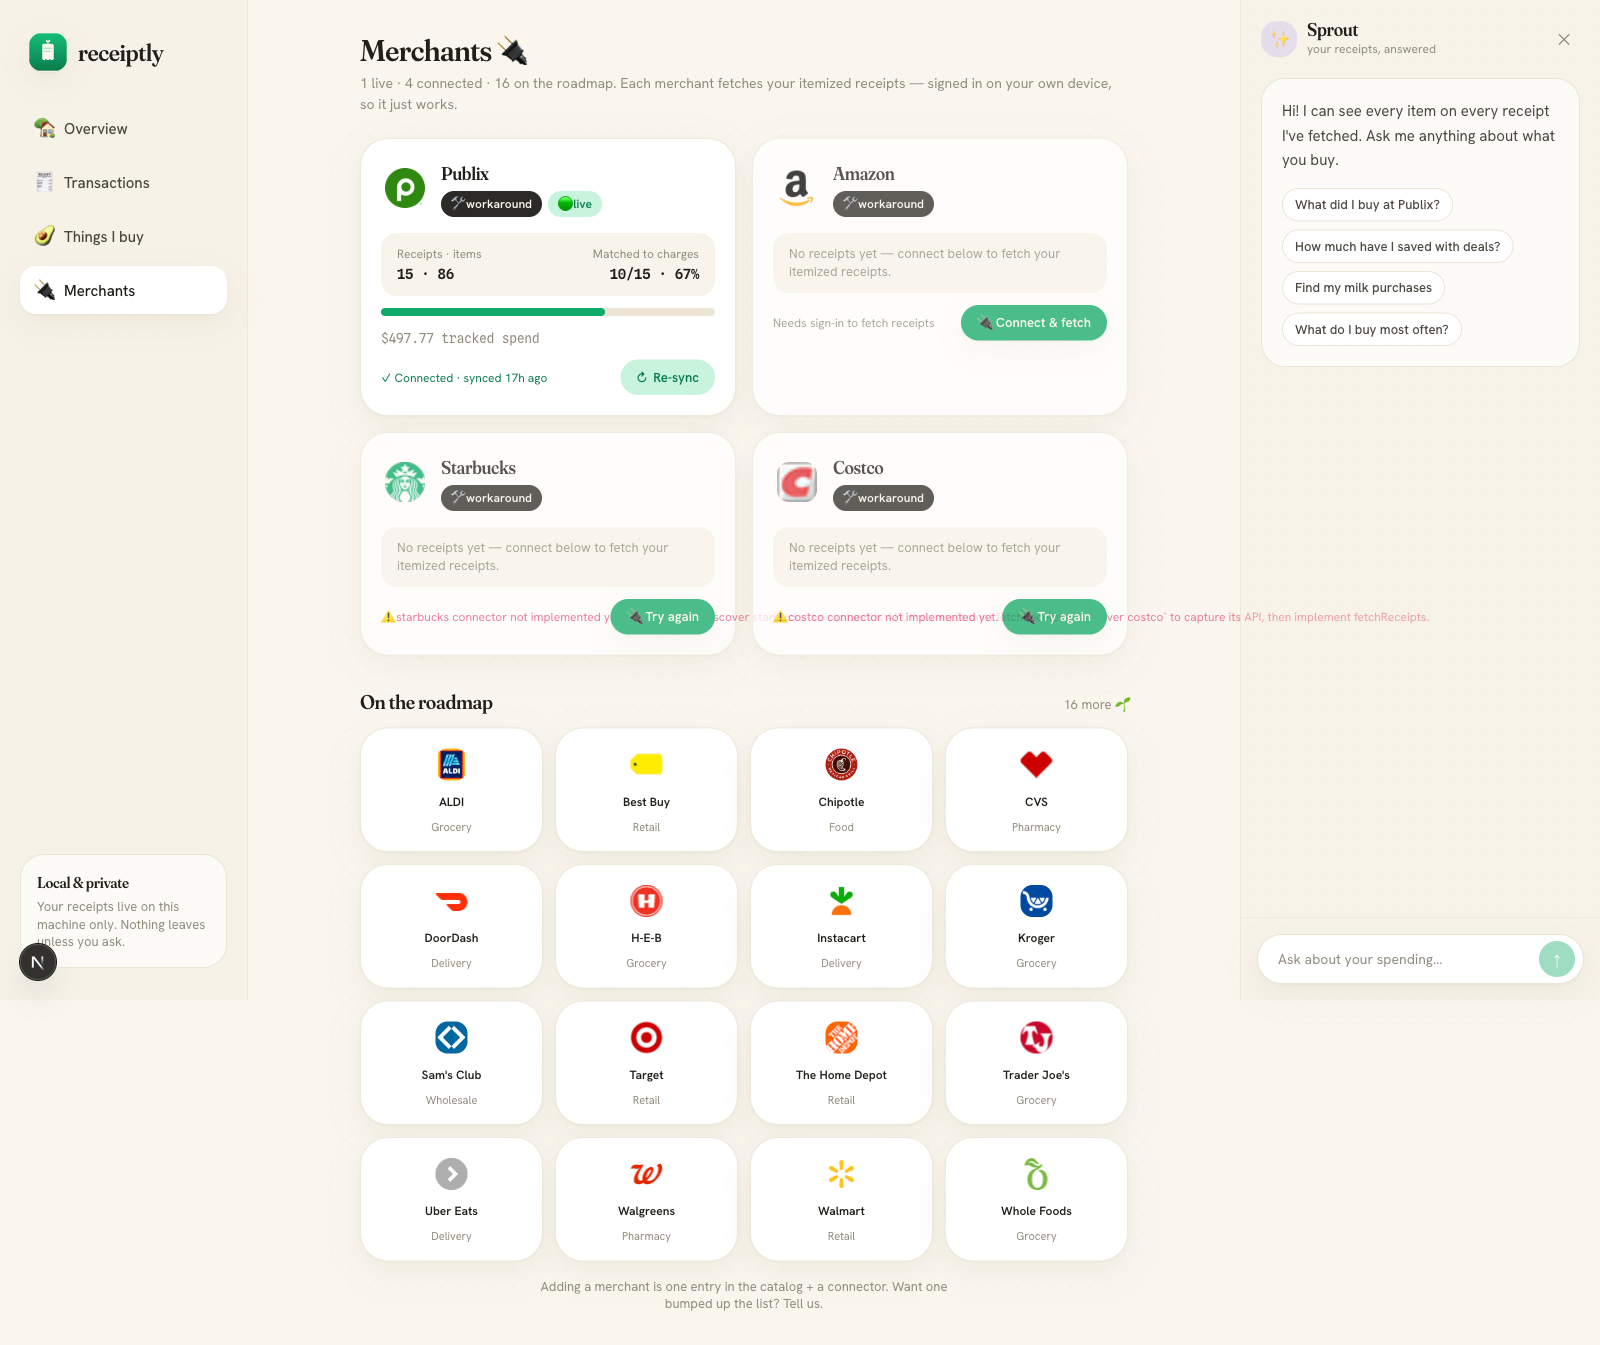
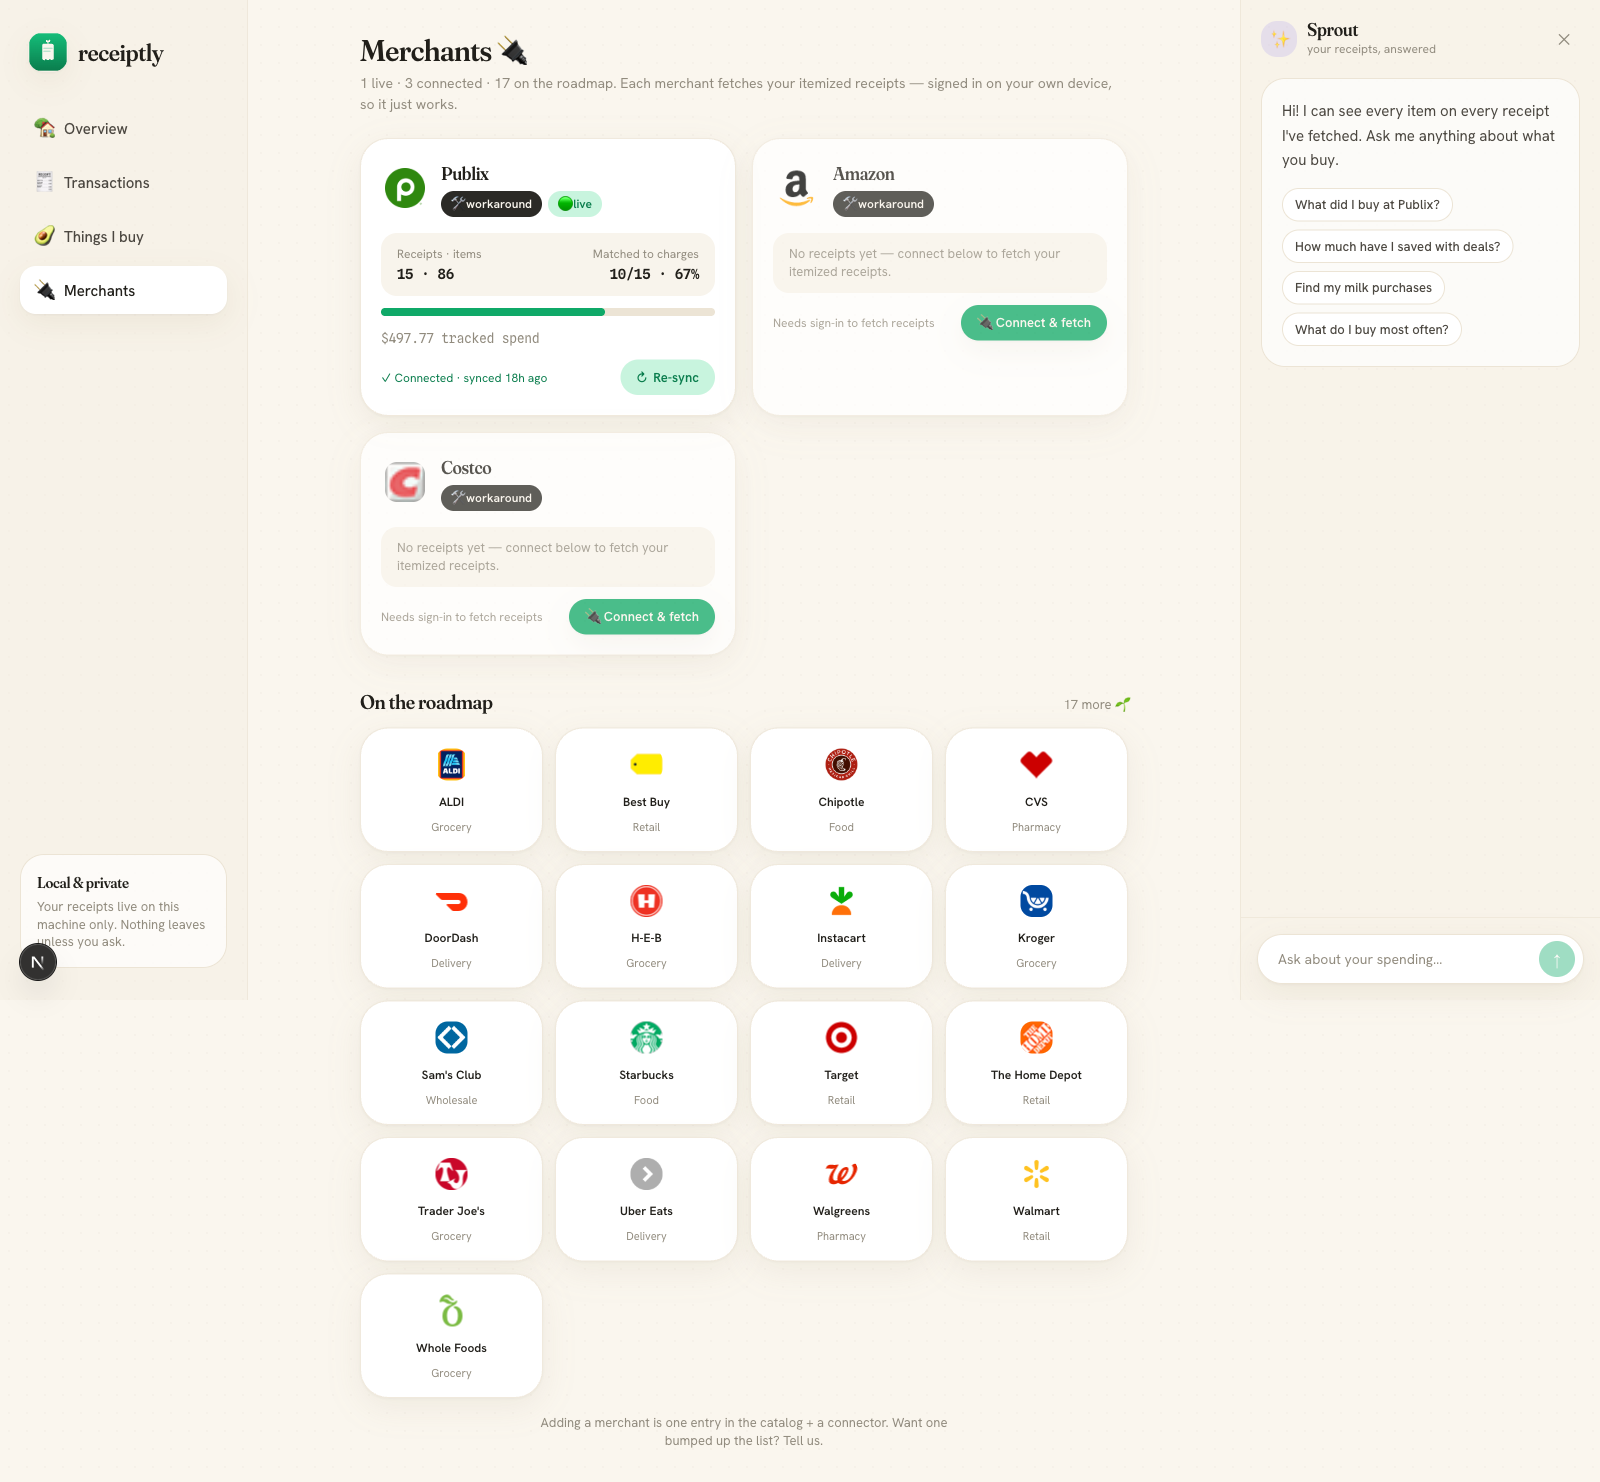
Fix Merchants page: drop Starbucks stub, stop the error overflow
The Starbucks/Costco cards showed a raw connector-stub error that referenced
the dev CLI ("Run `receiptly discover ...`") and overflowed the card.

- Starbucks has no capture path, so remove it from the connector registry; it's
  now catalog status "soon" and shows in the roadmap grid instead of an errored
  connector card.
- ConnectMerchant: move `truncate` to the flex container (it was on an inline
  span, so it never clipped) — long errors now ellipsize with a title tooltip.
- Costco: replace the CLI-referencing stub message with an on-device hint; clear
  the stale error so the card shows clean.
- Re-shoot docs/merchants.png with the fixed grid (Publix live; Amazon/Costco
  connectable; 17 on the roadmap).

diff --git a/apps/web/lib/merchants.ts b/apps/web/lib/merchants.ts
@@ -21,7 +21,7 @@ export const MERCHANTS: Merchant[] = [
   { key: "publix", name: "Publix", domain: "publix.com", color: "#007a3e", status: "live", category: "Grocery" },
   { key: "amazon", name: "Amazon", domain: "amazon.com", color: "#ff9900", status: "beta", category: "Retail" },
   { key: "costco", name: "Costco", domain: "costco.com", color: "#e31837", status: "beta", category: "Wholesale" },
-  { key: "starbucks", name: "Starbucks", domain: "starbucks.com", color: "#00704a", status: "beta", category: "Food" },
+  { key: "starbucks", name: "Starbucks", domain: "starbucks.com", color: "#00704a", status: "soon", category: "Food" },
   { key: "target", name: "Target", domain: "target.com", color: "#cc0000", status: "soon", category: "Retail" },
   { key: "walmart", name: "Walmart", domain: "walmart.com", color: "#0071dc", status: "soon", category: "Retail" },
   { key: "kroger", name: "Kroger", domain: "kroger.com", color: "#0d4d9e", status: "soon", category: "Grocery" },

diff --git a/apps/web/components/ConnectMerchant.tsx b/apps/web/components/ConnectMerchant.tsx
@@ -87,15 +87,13 @@ export function ConnectMerchant({
 
   return (
     <div className="mt-3 flex items-center justify-between gap-3">
-      <div className="min-w-0 text-[12px]">
+      <div className="min-w-0 flex-1 truncate text-[12px]" title={errored ? lastError ?? undefined : undefined}>
         {desktopMsg ? (
           <span className="text-sprout-deep">{desktopMsg}</span>
         ) : linked ? (
           <span className="text-sprout-deep">✓ Connected{since ? ` · synced ${since}` : ""}</span>
         ) : errored ? (
-          <span className="truncate text-berry" title={lastError ?? undefined}>
-            ⚠ {lastError ? lastError : "Needs attention — try again"}
-          </span>
+          <span className="text-berry">⚠ {lastError ? lastError : "Needs attention — try again"}</span>
         ) : (
           <span className="text-muted">Needs sign-in to fetch receipts</span>
         )}

diff --git a/packages/core/src/connectors/index.ts b/packages/core/src/connectors/index.ts
@@ -1,13 +1,14 @@
 import type { Connector, Tx } from "./types.js";
 import { publixConnector } from "./publix.js";
 import { amazonConnector } from "./amazon.js";
-import { starbucksConnector } from "./starbucks.js";
 import { costcoConnector } from "./costco.js";
 
+// Only merchants with a working capture path are registered as connectors (they
+// show as connectable on the Merchants page). Everything else lives in the
+// catalog (apps/web/lib/merchants.ts) as "soon" and appears in the roadmap grid.
 export const connectors: Connector[] = [
   publixConnector,
   amazonConnector,
-  starbucksConnector,
   costcoConnector,
 ];
 

diff --git a/packages/core/src/connectors/costco.ts b/packages/core/src/connectors/costco.ts
@@ -15,8 +15,7 @@ export const costcoConnector: Connector = {
   },
 
   async fetchReceipts() {
-    throw new Error(
-      "costco connector not implemented yet. Run `receiptly discover costco` to capture its API, then implement fetchReceipts."
-    );
+    // Costco has no server-side scrape path — its receipts are captured on-device.
+    throw new Error("Costco receipts are captured on your device — open the receiptly desktop app to connect.");
   },
 };
